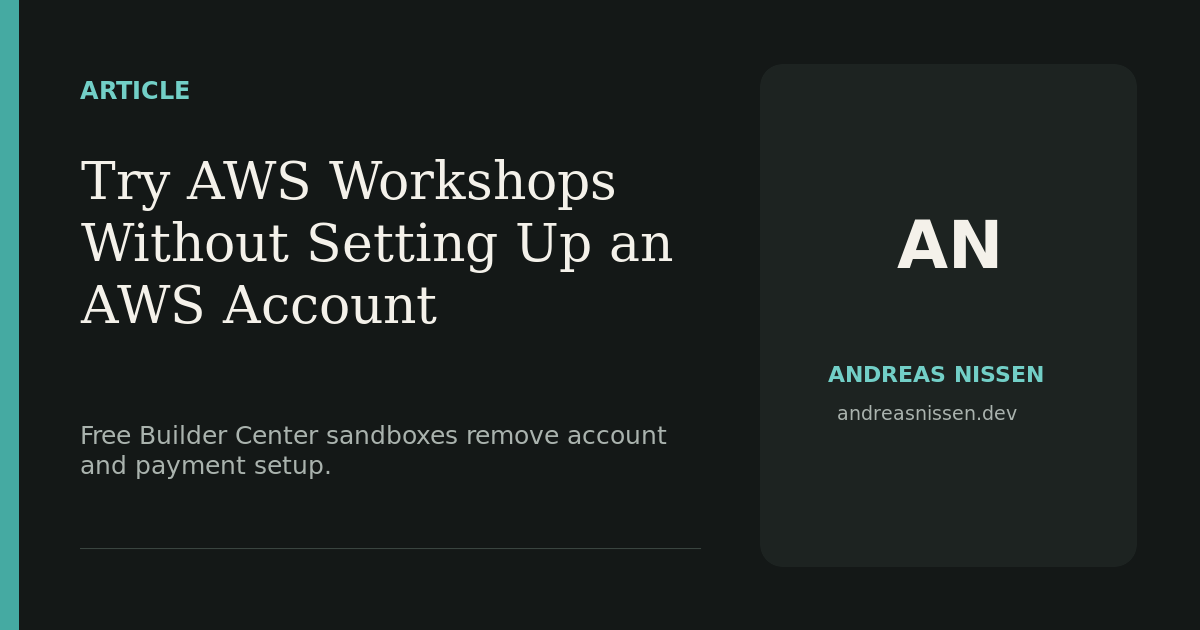
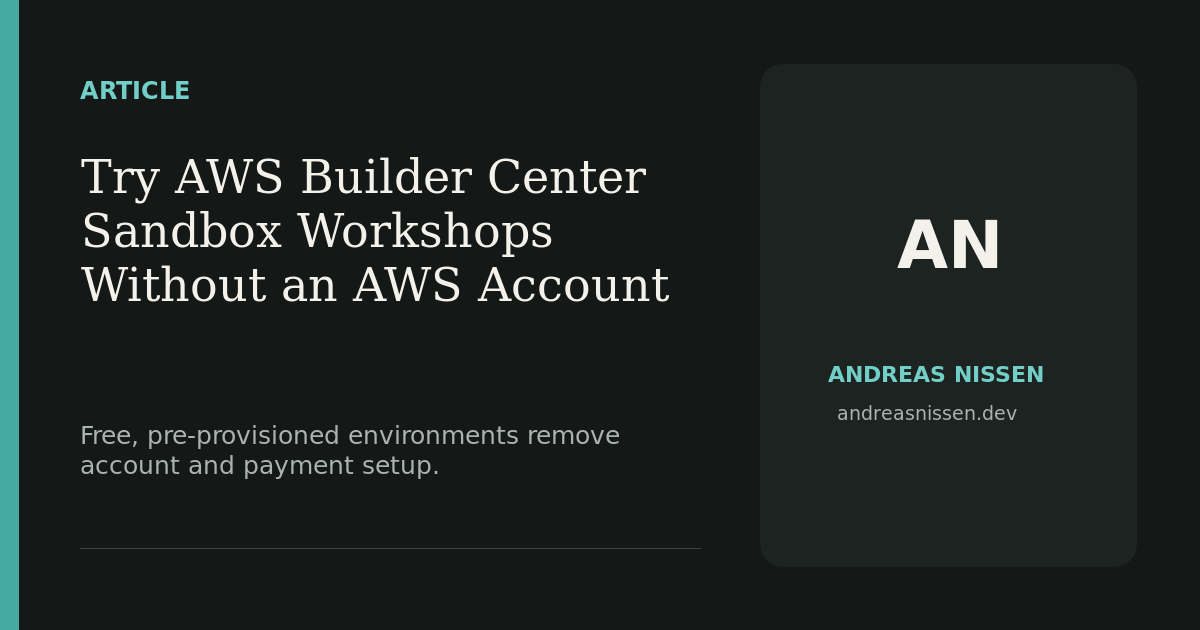
content: qualify Builder Center workshop title

Changed region(s): [[0.0617, 0.2413, 0.555, 0.5127], [0.0617, 0.6635, 0.555, 0.754]]

diff --git a/content/writing/free-aws-builder-center-sandboxes.md b/content/writing/free-aws-builder-center-sandboxes.md
@@ -1,5 +1,5 @@
 ---
-title: "Try AWS Workshops Without Setting Up an AWS Account"
+title: "Try AWS Builder Center Sandbox Workshops Without an AWS Account"
 date: 2026-07-09
 description: "AWS Builder Center removes the account and credit-card setup that often stops a workshop before the building begins."
 primaryTopic: "Learning"
@@ -16,7 +16,7 @@ proofLinks:
   - label: "Browse AWS workshops"
     url: "https://builder.aws.com/build/workshops"
 socialImage: "/images/social/builder-sandboxes.png"
-socialImageAlt: "Try AWS Workshops Without Setting Up an AWS Account, an article by Andreas Nissen."
+socialImageAlt: "Try AWS Builder Center Sandbox Workshops Without an AWS Account, an article by Andreas Nissen."
 tags:
   - AWS
   - hands-on learning
